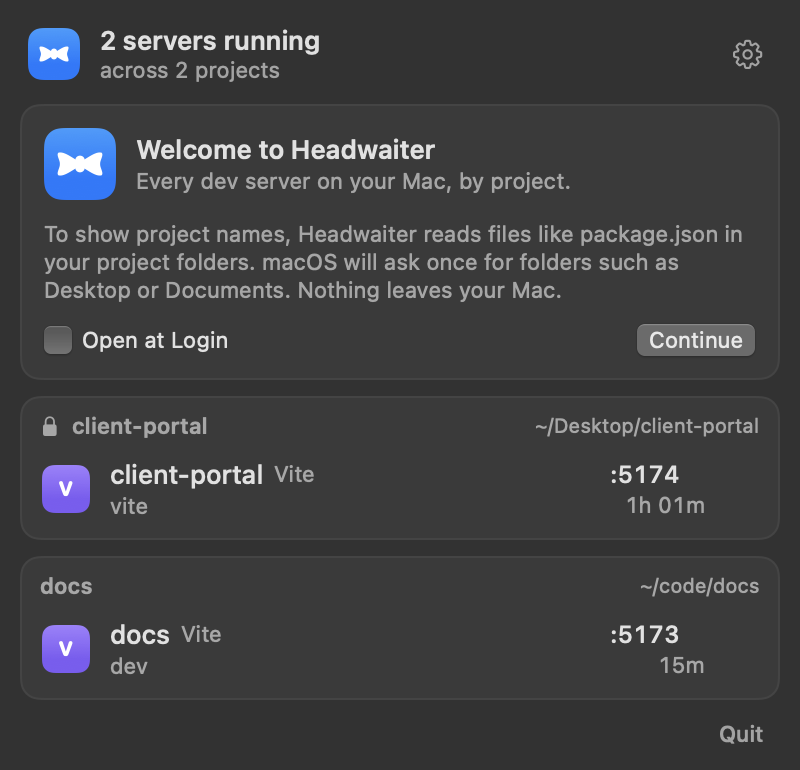
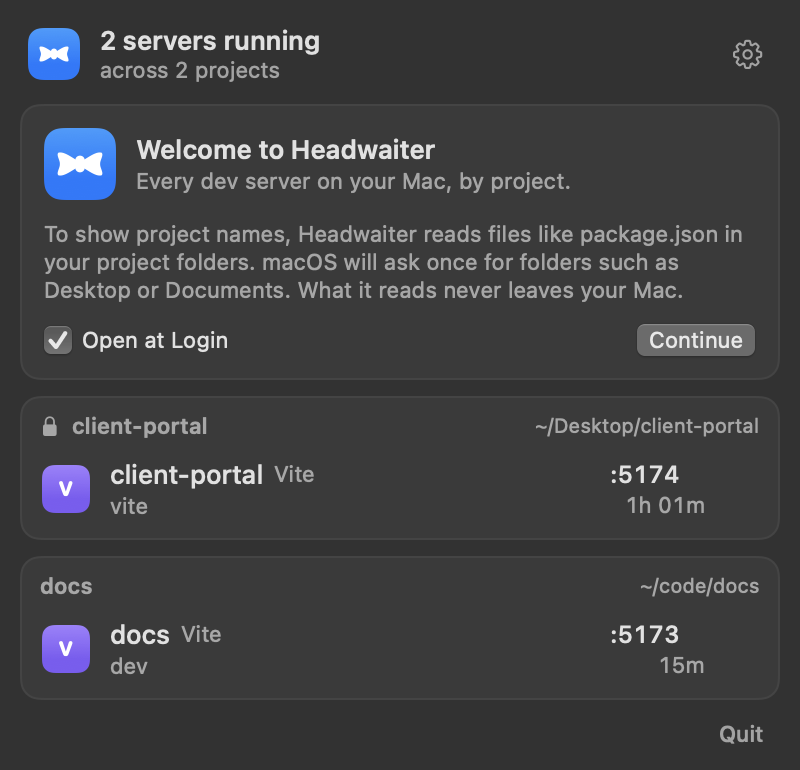
Update automatically with Sparkle
Release builds check GitHub Releases for a signed update feed. They ask before
checking automatically and before installing. Background finds show in the
popover footer and the right-click menu instead of opening a window. Builds
from source have no feed and never check.

- Bundle and sign Sparkle in build-app.sh and release.sh
- Write the signed feed at the end of a release; nothing is published
- Strip build-machine paths from release builds
- Correct the privacy wording, which predates update checks
- Version 0.4

Changed region(s): [[0.375, 0.3429, 0.8438, 0.4052], [0.0625, 0.4364, 0.0938, 0.4675]]

diff --git a/Sources/Headwaiter/Updater.swift b/Sources/Headwaiter/Updater.swift
@@ -1,0 +1,94 @@
+import AppKit
+import Observation
+import Sparkle
+
+/// Automatic updates with Sparkle.
+///
+/// Only release builds can update: `scripts/build-app.sh` leaves the feed address and public key
+/// out of Info.plist otherwise, so a build of your own is never replaced by the published one.
+///
+/// Sparkle asks before it checks automatically. A scheduled update doesn't interrupt with a
+/// window: the popover footer and the right-click menu offer it until it's opened.
+@MainActor
+@Observable
+final class Updater: NSObject {
+    static let shared = Updater()
+
+    /// Version of an update found in the background and not opened yet.
+    private(set) var availableVersion: String?
+    /// False for builds that can't update; they show no update controls.
+    private(set) var isAvailable: Bool
+    /// Mirrors Sparkle's own setting, which its first-run question also changes.
+    private(set) var checksAutomatically = false
+
+    @ObservationIgnored private var controller: SPUStandardUpdaterController?
+    @ObservationIgnored private var observation: NSKeyValueObservation?
+
+    override init() {
+        isAvailable = Self.isConfigured(Bundle.main.infoDictionary ?? [:])
+        super.init()
+    }
+
+    /// Snapshot rendering: show given state without starting Sparkle.
+    init(previewVersion: String?) {
+        isAvailable = true
+        checksAutomatically = true
+        availableVersion = previewVersion
+        super.init()
+    }
+
+    private static func isConfigured(_ info: [String: Any]) -> Bool {
+        ["SUFeedURL", "SUPublicEDKey"].allSatisfy { (info[$0] as? String)?.isEmpty == false }
+    }
+
+    func start() {
+        guard isAvailable, controller == nil else { return }
+        let controller = SPUStandardUpdaterController(
+            startingUpdater: true, updaterDelegate: nil, userDriverDelegate: self)
+        self.controller = controller
+        observation = controller.updater.observe(\.automaticallyChecksForUpdates, options: [.initial, .new]) { [weak self] _, _ in
+            // Sparkle changes this on the main thread only.
+            MainActor.assumeIsolated {
+                guard let self, let updater = self.controller?.updater else { return }
+                self.checksAutomatically = updater.automaticallyChecksForUpdates
+            }
+        }
+    }
+
+    func setChecksAutomatically(_ on: Bool) {
+        controller?.updater.automaticallyChecksForUpdates = on
+    }
+
+    /// Checks now, or brings an update that was already found to the front.
+    func checkForUpdates() {
+        NSApp.activate()
+        controller?.checkForUpdates(nil)
+    }
+}
+
+/// Sparkle calls these on the main thread; the protocol just isn't annotated.
+extension Updater: SPUStandardUserDriverDelegate {
+    nonisolated var supportsGentleScheduledUpdateReminders: Bool { true }
+
+    nonisolated func standardUserDriverShouldHandleShowingScheduledUpdate(
+        _ update: SUAppcastItem, andInImmediateFocus immediateFocus: Bool
+    ) -> Bool {
+        false   // never a window the user didn't ask for
+    }
+
+    nonisolated func standardUserDriverWillHandleShowingUpdate(
+        _ handleShowingUpdate: Bool, forUpdate update: SUAppcastItem, state: SPUUserUpdateState
+    ) {
+        guard !handleShowingUpdate else { return }
+        let version = update.displayVersionString
+        MainActor.assumeIsolated { availableVersion = version }
+    }
+
+    nonisolated func standardUserDriverDidReceiveUserAttention(forUpdate update: SUAppcastItem) {
+        MainActor.assumeIsolated { availableVersion = nil }
+    }
+
+    nonisolated func standardUserDriverWillFinishUpdateSession() {
+        MainActor.assumeIsolated { availableVersion = nil }
+    }
+}

diff --git a/Sources/Headwaiter/PopoverView.swift b/Sources/Headwaiter/PopoverView.swift
@@ -17,6 +17,7 @@ enum Layout {
 
 struct PopoverView: View {
     let store: ServerStore
+    var updater = Updater.shared
     @State private var listHeight: CGFloat = 0
     @State private var showHistory = false
 
@@ -164,7 +165,9 @@ struct PopoverView: View {
 
     private var footer: some View {
         HStack(spacing: 6) {
-            if store.showCopyHint {
+            if let version = updater.availableVersion {
+                UpdateButton(version: version, updater: updater)
+            } else if store.showCopyHint {
                 Image(systemName: "lightbulb").font(.system(size: 10))
                 Text("Option-click a server to copy its URL")
             }
@@ -199,7 +202,7 @@ struct WelcomeCard: View {
                     Text("Every dev server on your Mac, by project.").font(.system(size: 11)).foregroundStyle(.secondary)
                 }
             }
-            Text("To show project names, Headwaiter reads files like package.json in your project folders. macOS will ask once for folders such as Desktop or Documents. Nothing leaves your Mac.")
+            Text("To show project names, Headwaiter reads files like package.json in your project folders. macOS will ask once for folders such as Desktop or Documents. What it reads never leaves your Mac.")
                 .font(.system(size: 11))
                 .foregroundStyle(.secondary)
                 .fixedSize(horizontal: false, vertical: true)
@@ -1118,6 +1121,26 @@ enum SettingsWindow {
     private static func isSettings(_ window: NSWindow) -> Bool {
         // SwiftUI's Settings scene window identifier is "com_apple_SwiftUI_Settings_window".
         window.identifier?.rawValue.contains("Settings") == true
+    }
+}
+
+/// Shown in the footer when a newer version was found in the background.
+struct UpdateButton: View {
+    let version: String
+    let updater: Updater
+    @Environment(\.dismiss) private var dismiss
+
+    var body: some View {
+        Button {
+            dismiss()
+            updater.checkForUpdates()
+        } label: {
+            Label("Update to \(version)", systemImage: "arrow.down.circle.fill")
+                .font(.system(size: 11, weight: .medium))
+        }
+        .buttonStyle(.plain)
+        .foregroundStyle(Color.accentColor)
+        .help("See what's new and install it")
     }
 }
 

diff --git a/Sources/Headwaiter/StatusItemMenu.swift b/Sources/Headwaiter/StatusItemMenu.swift
@@ -1,6 +1,7 @@
 import AppKit
 
-/// Right-click (or Control-click) on the menu bar icon shows Settings…, About and Quit.
+/// Right-click (or Control-click) on the menu bar icon shows Settings…, updates, About,
+/// Capture Diagnostics and Quit.
 ///
 /// SwiftUI's MenuBarExtra has no right-click hook, so this watches the app's own mouse
 /// events and catches right-clicks on its status bar button before MenuBarExtra sees them.
@@ -29,6 +30,10 @@ final class StatusItemMenu: NSObject {
         guard let view = event.window?.contentView else { return }
         let menu = NSMenu()
         menu.addItem(item("Settings…", #selector(openSettings), key: ","))
+        if Updater.shared.isAvailable {
+            let title = Updater.shared.availableVersion.map { "Update to \($0)…" } ?? "Check for Updates…"
+            menu.addItem(item(title, #selector(checkForUpdates)))
+        }
         menu.addItem(item("About Headwaiter", #selector(openAbout)))
         menu.addItem(.separator())
         let capture = item("Capture Diagnostics", #selector(captureDiagnostics))
@@ -51,6 +56,10 @@ final class StatusItemMenu: NSObject {
         // The SwiftUI Settings scene responds to this action, as the app menu's Settings item does.
         NSApp.sendAction(Selector(("showSettingsWindow:")), to: nil, from: nil)
         SettingsWindow.bringToFront()
+    }
+
+    @objc private func checkForUpdates() {
+        Updater.shared.checkForUpdates()
     }
 
     @objc private func openAbout() {

diff --git a/Sources/Headwaiter/SettingsView.swift b/Sources/Headwaiter/SettingsView.swift
@@ -5,6 +5,7 @@ import SwiftUI
 
 struct SettingsView: View {
     let store: ServerStore
+    var updater = Updater.shared
     @AppStorage(Preferences.autoForceQuitKey) private var autoForceQuit = false
     @AppStorage(AppAppearance.key) private var appearance: AppAppearance = .system
     @AppStorage(Preferences.showFaviconsKey) private var showFavicons = true
@@ -42,6 +43,16 @@ struct SettingsView: View {
                 Toggle(isOn: $autoForceQuit) {
                     Text("Force quit automatically")
                     Text("When a server is still running 3 seconds after Stop, force quit it instead of showing the Force Quit button.")
+                }
+            }
+
+            if updater.isAvailable {
+                Section("Updates") {
+                    Toggle(isOn: Binding(get: { updater.checksAutomatically }, set: { updater.setChecksAutomatically($0) })) {
+                        Text("Check for updates automatically")
+                        Text("Asks GitHub once a day for a newer version. Nothing is installed without asking.")
+                    }
+                    Button("Check for Updates…") { updater.checkForUpdates() }
                 }
             }
 

diff --git a/Package.swift b/Package.swift
@@ -8,13 +8,20 @@ let package = Package(
         .library(name: "HeadwaiterCore", targets: ["HeadwaiterCore"]),
         .executable(name: "headwaiter-scan", targets: ["headwaiter-scan"]),
     ],
+    dependencies: [
+        // Automatic updates, in the menu bar app only.
+        .package(url: "https://github.com/sparkle-project/Sparkle", exact: "2.10.1"),
+    ],
     targets: [
         // Detection pipeline: no UI, no dependencies. Shared by the CLI and the menu bar app.
         .target(name: "HeadwaiterCore"),
         // CLI: prints detected servers; also benchmarks, checks against lsof, captures fixtures, stops.
         .executableTarget(name: "headwaiter-scan", dependencies: ["HeadwaiterCore"]),
         // The menu bar app. Bundle it with scripts/build-app.sh.
-        .executableTarget(name: "Headwaiter", dependencies: ["HeadwaiterCore"]),
+        .executableTarget(
+            name: "Headwaiter",
+            dependencies: ["HeadwaiterCore", .product(name: "Sparkle", package: "Sparkle")]
+        ),
         // Probes which process APIs survive the App Sandbox (scripts/sandbox-spike.sh).
         .executableTarget(name: "sandbox-spike"),
         .testTarget(

diff --git a/Sources/Headwaiter/Snapshots.swift b/Sources/Headwaiter/Snapshots.swift
@@ -61,7 +61,10 @@ enum Snapshots {
             write(PopoverView(store: emptyHistory), scheme: scheme, to: "\(dir)/popover-empty-history-\(suffix).png")
             write(PopoverView(store: empty), scheme: scheme, to: "\(dir)/popover-empty-\(suffix).png")
             write(PopoverView(store: welcome), scheme: scheme, to: "\(dir)/popover-welcome-\(suffix).png")
-            write(SettingsView(store: list), scheme: scheme, to: "\(dir)/settings-\(suffix).png")
+            write(SettingsView(store: list, updater: Updater(previewVersion: nil)), scheme: scheme,
+                  to: "\(dir)/settings-\(suffix).png")
+            write(PopoverView(store: empty, updater: Updater(previewVersion: "0.5")), scheme: scheme,
+                  to: "\(dir)/popover-update-\(suffix).png")
             writeIcons(scheme: scheme, to: "\(dir)/menubar-icons-\(suffix).png")
         }
         print("Snapshots written to \(dir)")

diff --git a/Sources/Headwaiter/HeadwaiterApp.swift b/Sources/Headwaiter/HeadwaiterApp.swift
@@ -71,5 +71,6 @@ final class AppDelegate: NSObject, NSApplicationDelegate {
             do { print(try Diagnostics.capture().path); exit(0) } catch { print(error); exit(1) }
         }
         statusMenu.install()
+        Updater.shared.start()
     }
 }

diff --git a/docs/RELEASING.md b/docs/RELEASING.md
@@ -1,6 +1,6 @@
 # Releasing
 
-For maintainers. `scripts/release.sh` builds a universal app, signs it with Developer ID and the hardened runtime, notarizes it and packs a DMG. `scripts/release.sh --dry-run` does everything except Developer ID signing and notarization.
+For maintainers. `scripts/release.sh` builds a universal app, signs it with Developer ID and the hardened runtime, packs a DMG, notarizes it and writes the signed update feed. It publishes nothing. `scripts/release.sh --dry-run` does everything except Developer ID signing and notarization.
 
 One-time setup, with your own Apple Developer account:
 
@@ -11,4 +11,37 @@ One-time setup, with your own Apple Developer account:
 xcrun notarytool store-credentials headwaiter-notary --apple-id <you> --team-id <TEAMID>
 ```
 
-Never commit certificates, keys or passwords.
+3. Create the update signing key. Sparkle keeps the private half in your login keychain and prints the public half:
+
+```bash
+swift package resolve && .build/artifacts/sparkle/Sparkle/bin/generate_keys --account headwaiter
+```
+
+Put the public key alone in `Resources/sparkle-public-key.txt` and commit it. Back up the private key somewhere safe, such as a password manager: installed copies only accept updates signed with it. Anyone who has it could sign an update.
+
+Never commit certificates, private keys or passwords.
+
+## Each release
+
+1. In `scripts/build-app.sh`, raise `version` and `build` (Sparkle compares `build`).
+2. Write `docs/releases/<version>.md`. It becomes the GitHub release notes and what Sparkle shows.
+3. Merge to `main`, then run `scripts/release.sh`. Test the DMG it prints.
+4. Create the release with both files, using the tag `v<version>`:
+
+```bash
+gh release create v0.4 build/updates/Headwaiter-0.4.dmg build/updates/appcast.xml --title "Headwaiter 0.4" --notes-file docs/releases/0.4.md
+```
+
+- **Both files, every time.** Installed copies read `releases/latest/download/appcast.xml`, so a latest release without it breaks update checks.
+- **Don't mark it as a pre-release,** even for a beta. GitHub's `latest` skips those.
+- **Don't edit `appcast.xml`.** Its signature would no longer match.
+
+## Testing an update
+
+Build a copy that thinks it's older, install it, then choose Check for Updates from the right-click menu:
+
+```bash
+VERSION=0.3 BUILD=3 UPDATES=1 scripts/build-app.sh release
+```
+
+That copy is signed with the local development certificate, so macOS may ask for folder access again after it updates.

diff --git a/README.md b/README.md
@@ -31,9 +31,10 @@ Projects are found from the nearest workspace root, git root or manifest (`packa
 - A server listening on more than one port shows a **+N** chip. Click it to list the other ports under the row, each one clickable.
 - Stop sends SIGTERM to the server's whole process tree, then offers Force Quit (SIGKILL) after 3 s. The force quit can be made automatic.
 - Recently stopped list, a NEW dot on servers started since you last looked, and a menu bar dot when something changed.
-- Settings: Open at Login, Appearance (System, Light, Dark), project icons, automatic force quit, privacy status, hidden items.
-- Right-click the menu bar icon for Settings, About, Capture Diagnostics and Quit.
-- Nothing leaves your Mac. The only network requests go to your own servers, and redirects are never followed.
+- Settings: Open at Login, Appearance (System, Light, Dark), project icons, automatic force quit, updates, privacy status, hidden items.
+- Right-click the menu bar icon for Settings, updates, About, Capture Diagnostics and Quit.
+- What Headwaiter sees stays on your Mac: no account, no analytics. It connects only to your own servers (redirects are never followed) and, for updates, to GitHub.
+- Release builds update themselves with [Sparkle](https://sparkle-project.org). They ask before checking automatically and before installing anything. Builds from source never check.
 
 ## Status
 
@@ -83,6 +84,7 @@ swift test
 - `Sources/Headwaiter`: menu bar app.
   - `ServerStore`: polling, stop, history.
   - `FaviconStore`: project icons.
+  - `Updater`: Sparkle, the app's only dependency.
   - `PopoverView`, `SettingsView`, `MenuBarIcon`.
 - `scripts/`: app bundling, dev signing, icon, release.
 - `Tests/HeadwaiterCoreTests`: fixture-driven tests (Swift Testing). `Fixtures/` holds captures from real machines.

diff --git a/SECURITY.md b/SECURITY.md
@@ -2,4 +2,4 @@
 
 Please report vulnerabilities privately: on GitHub, open the **Security** tab and choose **Report a vulnerability**. Don't open a public issue.
 
-Headwaiter reads other processes' command lines, working directories and project manifests, and sends signals to your own processes. It runs without the App Sandbox because the sandbox blocks those calls ([details](docs/app-sandbox.md)). Anything that makes it stop the wrong process, run something, or send data off your Mac is in scope.
+Headwaiter reads other processes' command lines, working directories and project manifests, and sends signals to your own processes. It runs without the App Sandbox because the sandbox blocks those calls ([details](docs/app-sandbox.md)). Anything that makes it stop the wrong process, run something, or send data off your Mac is in scope. So is anything that gets an update installed without a valid signature: the update feed and every download must be signed with the release key, and updates are never installed without asking.

diff --git a/docs/releases/0.4.md b/docs/releases/0.4.md
@@ -1,0 +1,9 @@
+First public download. This is a beta.
+
+- Shows the dev servers running on your Mac, grouped by project, with open, copy, stop and force quit.
+- Detects Node, Python, Go and Ruby servers, and Docker containers with published ports.
+- Updates itself. Headwaiter asks before it checks automatically.
+
+Docker, Go and some Python setups have mostly been tested with hand-written cases. If Headwaiter gets a server wrong, right-click the menu bar icon, choose Capture Diagnostics and [open an issue](https://github.com/individual11/headwaiter/issues). Check the capture for private details first.
+
+Needs macOS 15 or later, on Apple silicon or Intel.

diff --git a/docs/ROADMAP.md b/docs/ROADMAP.md
@@ -3,7 +3,6 @@
 Roughly in order. Open an issue to argue for something, or if you want to build one.
 
 **Release**
-- Automatic updates (Sparkle)
 - Public notarized DMG
 - One-page website
 
